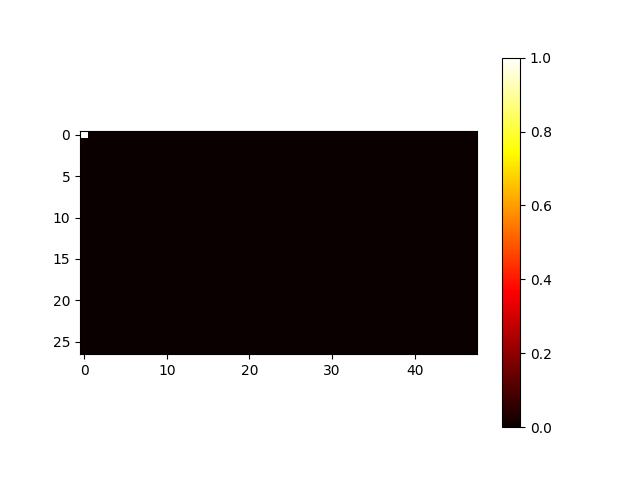
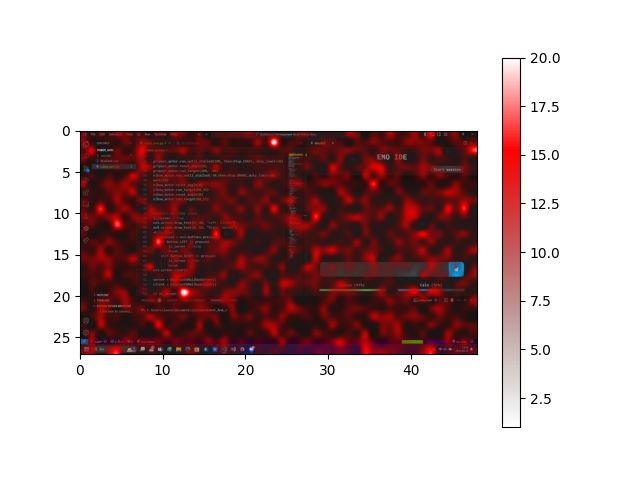
Added heatmap overlay. Calibrated eye-tracker values
**Added**
Heatmap overlay/background background color. We can now see the background in the heatmap as the vscode window. The intensity color of the heatmap is now from transparent to red to white (white is most intense)

**Calibrated eye-tracker values**
Eye-tracker values now get better accuracy for Hugo's computer. Now we have both for Eric's and Hugo's screens.

Hugo Collaboration with Eric

diff --git a/Eyetracker.js b/Eyetracker.js
@@ -4,13 +4,17 @@ const { execSync } = require('child_process')
 var DOMParser = require('xmldom').DOMParser;
 const fs = require('fs')
 
-
 const MAX_LENGTH = 30
 var readFunctionDelay = 10 //in seconds
 
-const EDITOR_START_Y = 0.107
-const EDITOR_END_Y = 0.733
-const EDITOR_START_X = 0.129
+// ericvärden
+//const EDITOR_START_Y = 0.103
+//const EDITOR_END_Y = 0.738
+//const EDITOR_START_X = 0.14
+// hugovärden
+const EDITOR_START_Y = 0.12
+const EDITOR_END_Y = 0.777
+const EDITOR_START_X = 0.20
 const LINE_HEIGHT = (EDITOR_END_Y - EDITOR_START_Y) / 30 //assume 30 lines
 var timeOut = false;
 
@@ -58,8 +62,11 @@ class EyeTracker {
             for (var i = 0; i < records.length; i++) {
                 var newX = parseFloat(records[i].getAttribute('FPOGX'))
                 var newY = parseFloat(records[i].getAttribute('FPOGY'))
-                this.X.push(newX)
-                this.Y.push(newY)
+                if (newX != 0 || newY != 0)
+                {
+                    this.X.push(newX)
+                    this.Y.push(newY)
+                }
                 if (!timeOut && this.recording && newX > 0 && newX < 1 && newY > 0 && newY < 1) {
                     this.long_X.push(newX)
                     this.long_Y.push(newY)
@@ -114,8 +121,8 @@ class EyeTracker {
 		if (editor != undefined) {	
 			var y = this.getY()
 			var x = this.getX()
-            //var y = 0.12
-            //var x = 0.21
+            // var y = 0.5
+            // var x = 0.5
 			if (y >= EDITOR_START_Y && y <= EDITOR_END_Y && x >= EDITOR_START_X) {
 
 				var currentRange = editor.visibleRanges

diff --git a/heatmapGenerator.py b/heatmapGenerator.py
@@ -1,5 +1,6 @@
 #import numpy as np
 import matplotlib.pyplot as plt
+import matplotlib.colors as clr
 import math
 import random
 import sys
@@ -23,10 +24,10 @@ for arg in sys.argv[1:]:
     this_cwd += arg + ' '
 this_cwd = this_cwd.rstrip()
 
-x_arr = list(map(float, read_file(this_cwd + '\\xValues.txt').split(','))) 
-y_arr = list(map(float, read_file(this_cwd + '\\yValues.txt').split(',')))
-#x_arr = [random.random() for _ in range(10000)] # test
-#y_arr = [random.random() for _ in range(10000)] # test
+#x_arr = list(map(float, read_file(this_cwd + '\\xValues.txt').split(','))) 
+#y_arr = list(map(float, read_file(this_cwd + '\\yValues.txt').split(',')))
+x_arr = [random.random() for _ in range(10000)] # test
+y_arr = [random.random() for _ in range(10000)] # test
 
 
 def calculate_intensity(x_in, y_in):
@@ -44,11 +45,18 @@ def generate_heatmap(x_in, y_in):
     # Sample X and Y data
     #X, Y = np.meshgrid(GRID_WIDTH, GRID_HEIGHT)
 
-    # Create heatmap
-    plt.imshow(intensity, cmap='hot', interpolation='nearest')
+    #Create heatmap
+    img = plt.imread("vscodewin.png")
+    plt.imshow(img, extent=[0, GRID_WIDTH, GRID_HEIGHT, 0])
+
+    cmap = clr.LinearSegmentedColormap.from_list(name='transparent-red', colors=[(0, 0, 0, 0), (0.33, 0, 0, 0.33), (0.67, 0, 0, 0.67), (1, 0, 0, 1), (1, 1, 1, 1)])
+    plt.imshow(intensity, cmap=cmap, interpolation='catrom', extent=[0, GRID_WIDTH, GRID_HEIGHT, 0])
+       
     plt.colorbar()  # Add color bar indicating the scale
+
     #plt.show()
     plt.savefig("heatmap.png", transparent=True)
 
 generate_heatmap(x_arr, y_arr)
+#generate_heatmap(x_arr, y_arr)
 exit(0)
